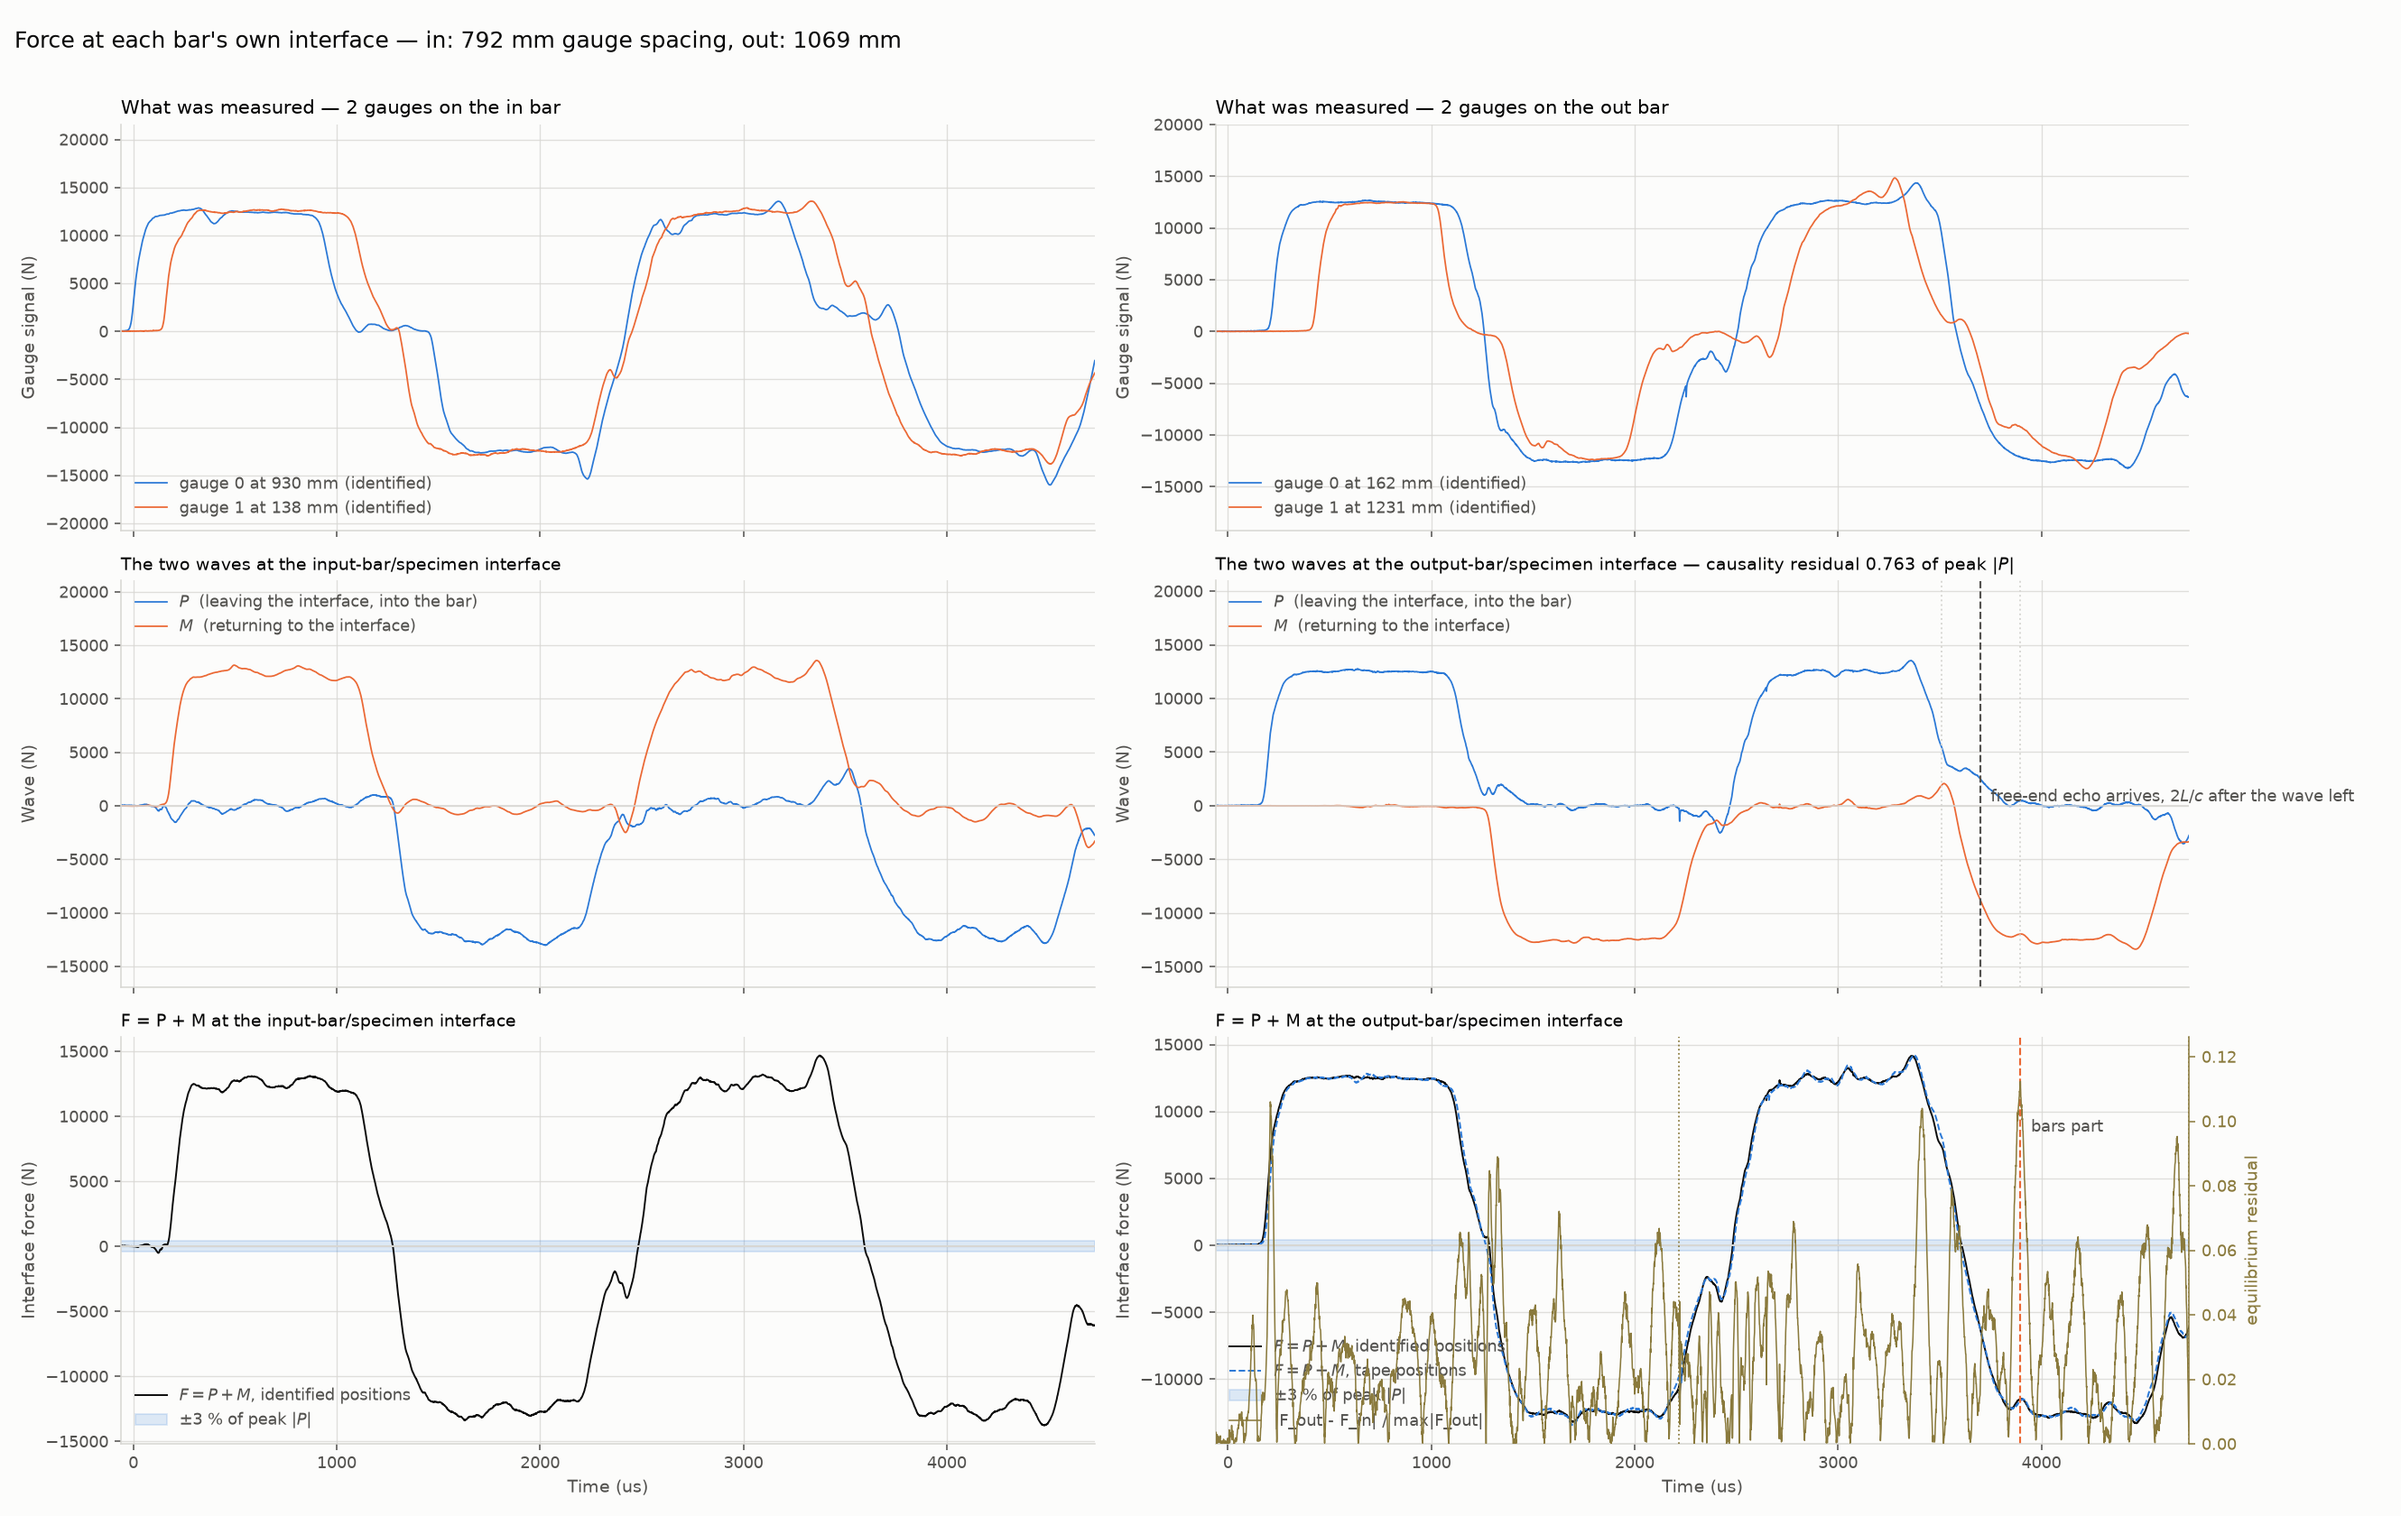
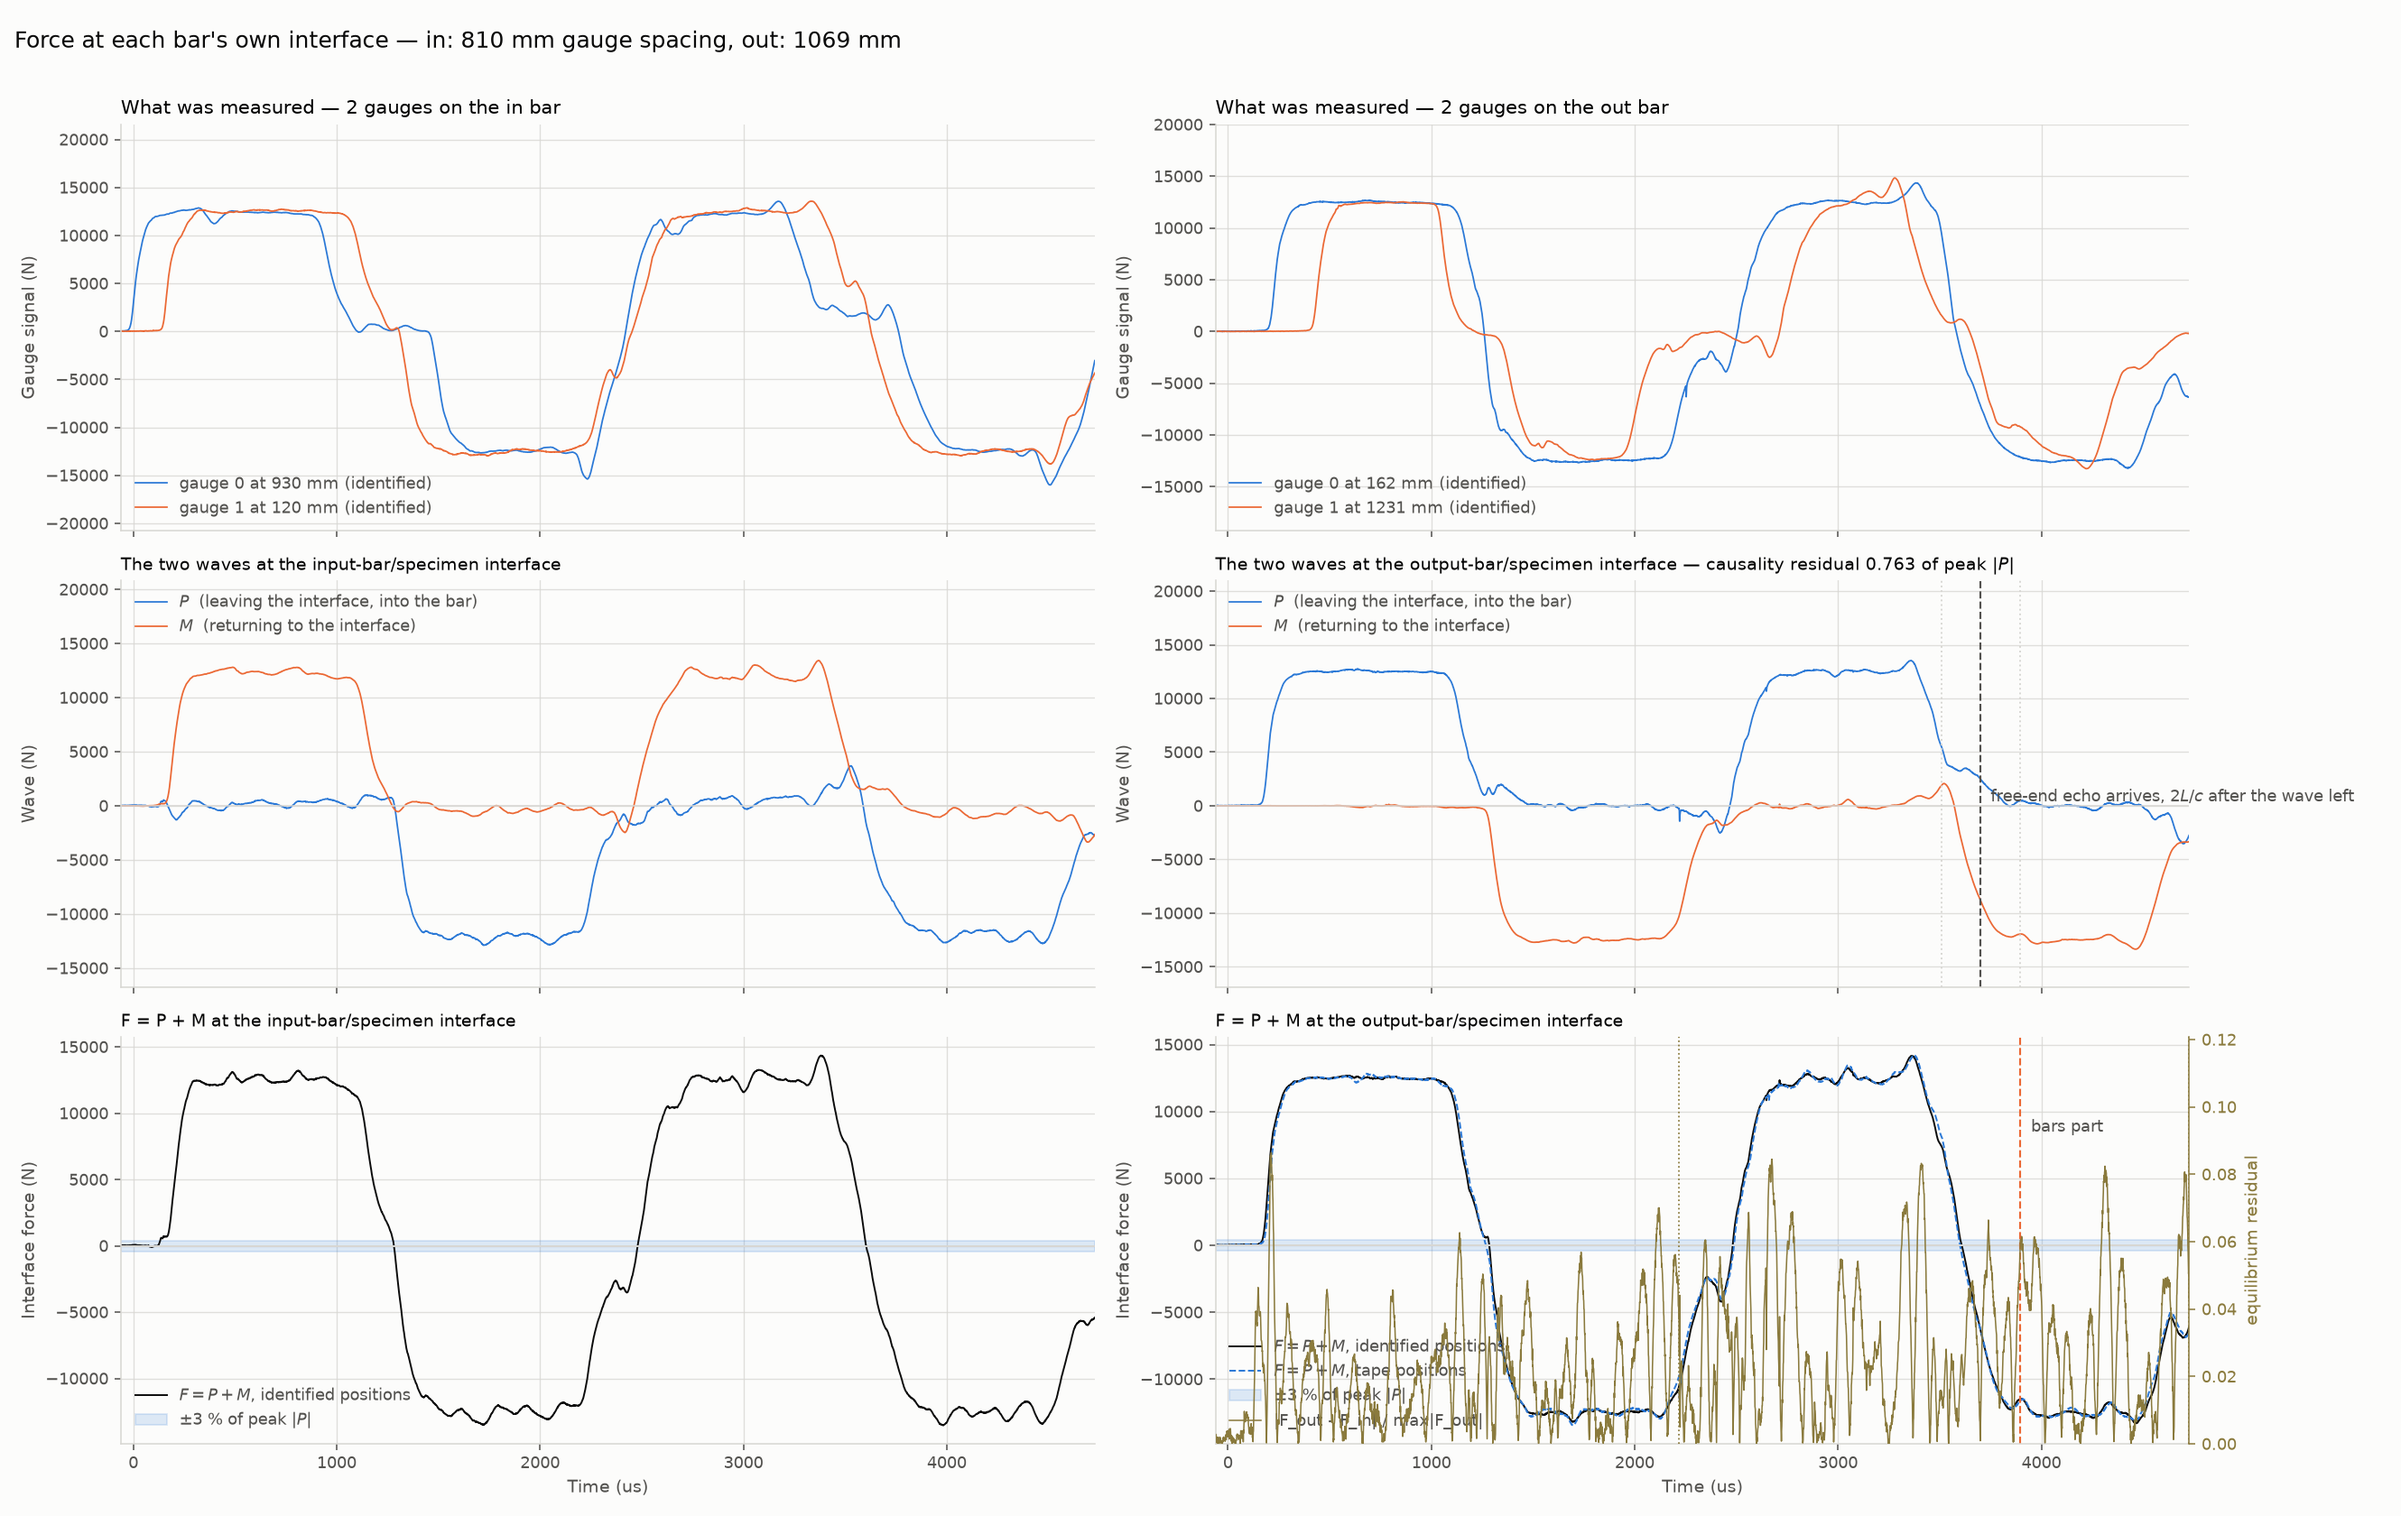
3wave: tape-anchor the in bar's in-1 position, empirically not derived
Investigated the in bar's ~18 mm (2.2%) position error against the
actually-identified alpha(f)/c_p(f) three ways (direct correlation-peak
simulation, analytical group delay, direct near/far transfer-function
fit) -- none reproduces the gap a flatness sweep finds (NOTES.md,
thread 10 addendum). Not a bulk-dispersion correlation-peak bias we
can derive from data on this shot.

Added [.position_override] to config.toml: falls back to the tape
value for in-1 (120 mm, vs identified 138.01 mm), applied right after
id_pos is computed so it propagates everywhere positions are used.
identify_bar_tension.py prints the override plainly, skips fitting
that bar's own (now geometry-inconsistent) alpha/dispersion pair and
borrows the out bar's fit in full instead, and labels the gauge
"(overridden)" rather than "(identified)" in both the printed tables
and the figure -- an empirical fallback, not a measurement.

Claude-Session: https://claude.ai/code/session_015NqyhV5v2tBbb7m88cos6N

diff --git a/3wave/identify_bar_tension.py b/3wave/identify_bar_tension.py
@@ -536,6 +536,38 @@ L_free = L_FREE_REF - c0_id * lag
 id_pos = np.where(np.arange(len(names)) >= n_in,
                   L_OUTPUT - L_free, L_free - L_OUTPUT - L_JOINT)
 
+# --------------------------------------------------------------------------
+# position override -- an EMPIRICAL fallback, not a measurement
+# --------------------------------------------------------------------------
+# [.position_override] names gauges whose arrival-lag position is not trusted
+# -- investigated and not explained by anything this script or
+# identify_attenuation.py can measure (NOTES.md, thread 10 addendum: neither
+# alpha(f), nor c_p(f), nor a direct near/far transfer-function fit reproduces
+# the gap). Overriding trades a value this script computed for one a tape
+# supplied; OVERRIDDEN records which BAR that touches, so the attenuation
+# section below knows not to fit that bar's own (now geometry-inconsistent)
+# pair -- id_pos would no longer agree with the arrival timing that pair's
+# alpha/c_p fit assumes.
+POS_OVERRIDE = dict(cfg.get('position_override', {}))
+OVERRIDDEN = set()
+if POS_OVERRIDE:
+    print('\n--- position override, from config -- NOT identified '
+          '---------------')
+    print('tape used as the more defensible of the two, not because it has '
+          'been shown\ncorrect -- see [.position_override] in config.toml '
+          'for why.')
+    for nm, val in POS_OVERRIDE.items():
+        if nm not in names:
+            raise SystemExit(f'position_override names {nm!r}, not one of '
+                             f'{names}')
+        k = names.index(nm)
+        print(f'{nm:>7}  identified {id_pos[k]:8.2f} mm -> override '
+              f'{float(val):8.2f} mm  ({id_pos[k]-float(val):+.2f} mm)')
+        id_pos[k] = float(val)
+        L_free[k] = (id_pos[k] + L_OUTPUT + L_JOINT if k < n_in
+                     else L_OUTPUT - id_pos[k])
+        OVERRIDDEN.add(names[k].split('-')[0])
+
 # What the tape costs each position. L_free_k = L_free_ref (1 - 2 lag_k / Q), so
 # d(L_free_k) = (L_free_k / L_free_ref) d(L_free_ref); and x is L_free plus a
 # CONSTANT (L_OUTPUT, L_JOINT) that the tape error does not touch, so the
@@ -554,15 +586,18 @@ for k, nm in enumerate(names):
 
 print('\n--- gauge spacing D '
       '-------------------------------------------------------')
-print(f'{"bar":>7} {"lag [us]":>12} {"D = c0 dt":>12} {_ref_lbl:>9} {"error":>9}')
+print(f'{"bar":>7} {"lag [us]":>12} {"D = c0 dt":>12} {"D (used)":>10} '
+      f'{_ref_lbl:>9} {"error":>9}')
 for bar, off, cnt in (('in', 0, n_in), ('out', n_in, len(names) - n_in)):
     if cnt < 2:
         continue
     dl = abs(lag[off + 1] - lag[off])
-    D_id = c0_id * dl
+    D_lag = c0_id * dl                      # from raw timing, always printed
+    D_used = abs(id_pos[off + 1] - id_pos[off])   # what separate() actually gets
     D_true = abs(true_pos[off + 1] - true_pos[off])
-    print(f'{bar:>7} {dl*1e3:12.4f} {D_id:12.3f} {D_true:9.2f} '
-          f'{D_id-D_true:+9.3f}')
+    note = '  (overridden)' if bar in OVERRIDDEN else ''
+    print(f'{bar:>7} {dl*1e3:12.4f} {D_lag:12.3f} {D_used:10.3f} {D_true:9.2f} '
+          f'{D_used-D_true:+9.3f}{note}')
 
 # The errors in the "error" columns are what the TIMING costs, with L_free_ref
 # taken as exact. The tape error is separate and adds on top -- but NOT
@@ -646,6 +681,16 @@ if EXPERIMENT and 'attenuation' in cfg:
     for bar, off, cnt in (('in', 0, n_in), ('out', n_in, len(names) - n_in)):
         if cnt < 2:
             continue
+        if bar in OVERRIDDEN:
+            # id_pos here came from config, not from arrival[]/tau[] -- fitting
+            # this bar's own pair would divide a tape-supplied dx by an
+            # arrival-lag-derived lag, two numbers that no longer describe the
+            # same measurement. Borrowed from the other bar below instead.
+            print(f'{bar:>5} not fit: its position was overridden above, so '
+                  'its own alpha(f)/c_p(f)\n      would divide an '
+                  'arrival-lag delay by a tape-supplied distance -- borrowed '
+                  'below instead')
+            continue
         try:
             a = fit_attenuation(t, signals[off:off + cnt], id_pos[off:off + cnt],
                                 arrival[off:off + cnt],
@@ -691,7 +736,14 @@ if EXPERIMENT and 'attenuation' in cfg:
     # is a property of the CYLINDER (Pochhammer-Chree), not of which half of
     # it a gauge happens to sit on.
     for bar, other in (('in', 'out'), ('out', 'in')):
-        if (bar in ATT and ATT[bar]['dispersion_table'] is None
+        if bar in OVERRIDDEN and bar not in ATT and other in ATT:
+            # Not fit at all above -- borrow the WHOLE result, alpha included,
+            # not just c_p(f): its own position being untrustworthy sinks
+            # both halves of the fit equally, not only the phase half.
+            ATT[bar] = ATT[other]
+            print(f'{bar:>5} alpha(f), c_p/c0: borrowed from the {other} bar '
+                  'in full -- own position overridden, not fit')
+        elif (bar in ATT and ATT[bar]['dispersion_table'] is None
                 and other in ATT and ATT[other]['dispersion_table'] is not None):
             ATT[bar]['dispersion_table'] = ATT[other]['dispersion_table']
             print(f'{bar:>5} c_p/c0: borrowed from the {other} bar -- same rod '
@@ -889,8 +941,9 @@ for col, (bar, off, cnt) in enumerate(COLS):
 
     ax0 = axes[0, col]
     for j in range(cnt):
+        src = 'overridden' if names[off + j] in POS_OVERRIDE else 'identified'
         ax0.plot(t_null, bsig[j] * SCALE, lw=.9, color=(BLUE, ORANGE)[j % 2],
-                 label=f'{names[off + j]} at {bx[j]:.0f} mm (identified)')
+                 label=f'{names[off + j]} at {bx[j]:.0f} mm ({src})')
     ax0.set_ylabel(f'Signal ({USYM})')
     ax0.set_title(f'What was measured — {cnt} gauges on the {bar} bar',
                   loc='left', fontsize=11)
@@ -951,8 +1004,9 @@ for col, (bar, off, cnt) in enumerate(COLS):
     F_b = p_b + m_b
 
     ax2 = axes[2, col]
+    pos_lbl = 'overridden position' if bar in OVERRIDDEN else 'identified positions'
     ax2.plot(t_null, F_b * SCALE, color=INK, lw=.9,
-             label='$F = P + M$, identified positions')
+             label=f'$F = P + M$, {pos_lbl}')
     ax2.axhline(0, color=GRID, lw=1.0)
     ax2.set_xlabel('Time (ms)')
     ax2.set_ylabel(f'Interface force ({USYM})')

diff --git a/3wave/NOTES.md b/3wave/NOTES.md
@@ -174,6 +174,58 @@ repeated here; this file is only for what those do not record.
     as good enough to suppress the edge artifact, not as a first-principles
     Pochhammer-Chree measurement to publish.
 
+    **Addendum 2026-09-03 -- the `in` bar's own position error, chased and NOT
+    explained.** Comparing `F_in(t)` and `F_out(t)` (independently
+    reconstructed, each from only that bar's own two gauges) over the first
+    loading plateau shows `in` visibly noisier than `out`. A direct sweep of
+    the assumed `in-1` position against plateau flatness (std over t =
+    350-850 us) finds the optimum at **x = 123.5 mm**, `D = 806.5 mm` --
+    nowhere near the identified **138.01 mm** (`D = 792 mm`, arrival-lag
+    route) and close to tape's **120 mm** (`D = 810 mm`). Tried to explain the
+    ~18 mm gap as the same edge-broadening bias `identify_bar_compression.py`
+    corrects for on the PC bar, three ways, all against the ACTUAL identified
+    `alpha(f)`/`c_p(f)` for this bar (borrowed onto `in` from `out`):
+
+    - Propagate `TEMPLATE` itself through the identified dispersion by the
+      raw-lag-implied extra distance, then re-run the SAME `_xcorr`/
+      `_extremum` search real arrivals are measured with, to see how far the
+      peak moves. Predicts **~0** for every gauge -- this bar's dispersion
+      (+-2-4 %, oscillating both sides of 1, unlike the PC bar's monotonic
+      loss) does not shift a discrete correlation peak by a numerically
+      detectable amount.
+    - Analytical group delay, `distance x [(1/c_p(f) - 1/c0) + f d/df(1/c_p(f))]`,
+      energy-weighted over `TEMPLATE`'s own spectrum in the fitted 2-50 kHz
+      band. Predicts a real, distance-growing bias (in-1: 1.2 us =~ 6 mm) --
+      but applying it moves `in-1` from 138 mm to 144 mm, AWAY from the
+      sweep's 123.5 mm, not toward it. Checked the sign twice; the model
+      predicts the wrong direction, not a slip.
+    - `fit_attenuation`'s own grid-searched `tau`, applied directly between
+      `in-0` and each other gauge (dummy positions so the pair always runs
+      forward, sidestepping the direction guard). Gets the sign right this
+      time (in-1: +0.8 us of the +2.8 us needed, 29 %) but the misfit for
+      these cross-bar fits is 10-18 %, four to five times worse than the
+      same-bar `out0`/`out1` fit (2.5-4 %) -- the single-transfer-function
+      model does not describe two gauges either side of the coupler well, so
+      this `tau` is not trusted either.
+
+    None of the three reproduces the gap. **Conclusion: this is very likely
+    NOT a bulk-dispersion correlation-peak bias** -- if it were, at least one
+    physically-motivated route should have recovered it. More likely
+    something specific to this one shot (asymmetric noise between `in-0`/
+    `in-1`, a slightly non-planar strike, or the sweep's own optimum being
+    pulled around by noise in that one window). **Shipped the pragmatic
+    fallback instead**, not the derived one: `[experiment_tension_bar_2.
+    position_override]` in config.toml sets `in-1 = 120.0` (tape) directly.
+    `identify_bar_tension.py` applies it right after computing `id_pos`, prints
+    the override plainly (`gauge positions` table then reads `error +0.000` for
+    that gauge, by construction), and skips fitting that bar's own `alpha(f)`/
+    `c_p(f)` afterward -- `id_pos` no longer agrees with the arrival timing
+    that fit assumes -- borrowing the `out` bar's fit in full instead, same
+    justification as the dispersion borrowing above. Labelled `(overridden)`
+    everywhere it would otherwise say `(identified)`, in the printed tables and
+    in the figure. This is an empirical fallback, not a measurement -- worth
+    revisiting if a future shot on this rig makes the mechanism clearer.
+
     **One thing the plan did not anticipate, found while implementing it: pair
     DIRECTION matters for phase, not just position.** `fit_attenuation`'s
     `pairs` are ordered by `x[k] > x[j]`, silently assuming the wave reaches
